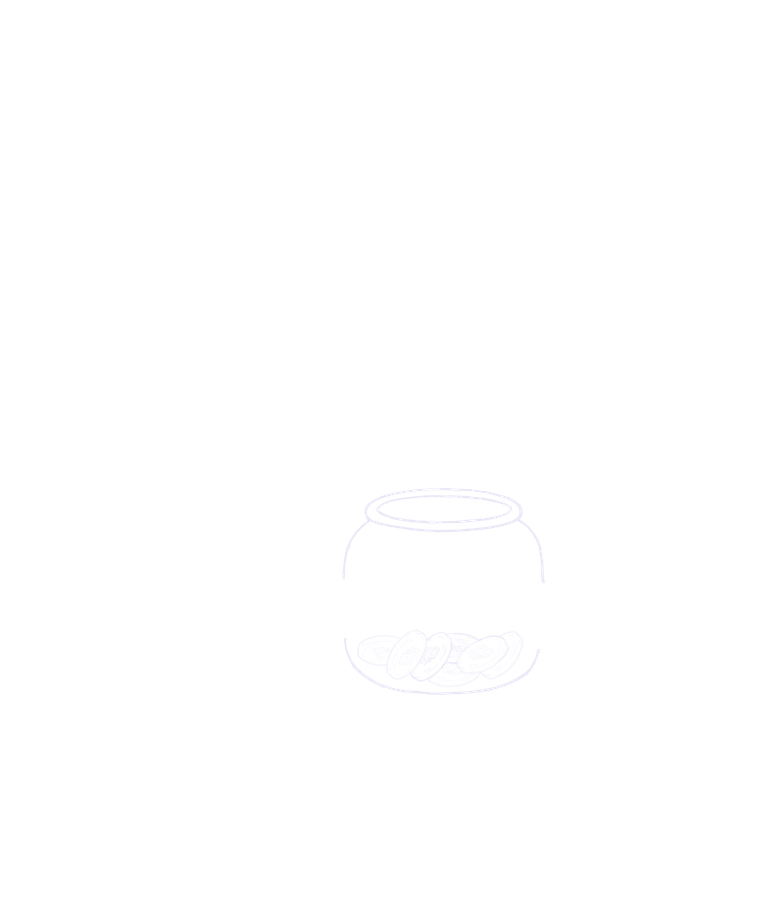
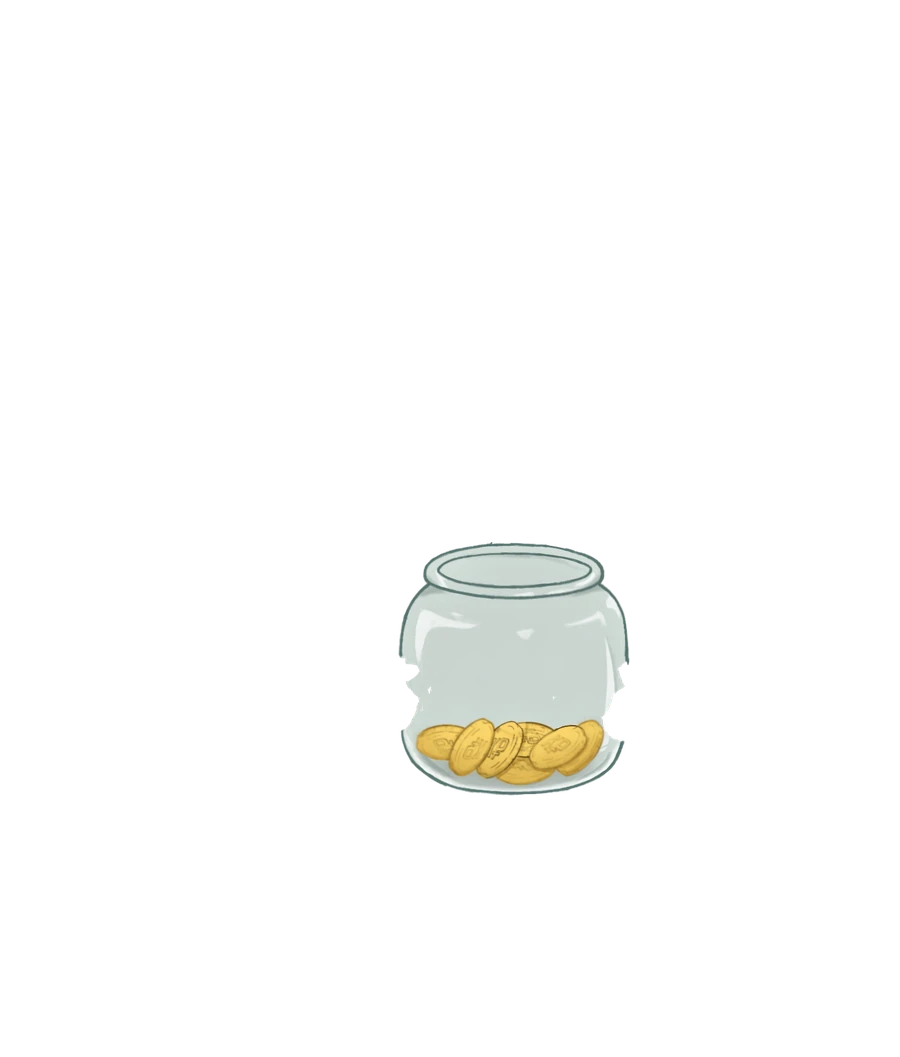
feat(daisu): the artist's finished drawing
her colour layers replace the line art sketch: two pairs of eyes, three pairs of brows, three mouths and the five jars. the export tool reads the artist's folders as they are, writes lossy webp instead of recolouring line art, and removes parts the new art no longer has. her everyday face wears the level brows, the smug face the raised ones and the sharp face the angry ones.

Changed region(s): [[0.4237, 0.487, 0.6961, 0.7609]]

diff --git a/src/components/daisu/DaisuArt.tsx b/src/components/daisu/DaisuArt.tsx
@@ -70,8 +70,8 @@ const mouthNow = (expression: Expression, talking: boolean, frame: number) => {
   return look.talk[Math.floor(frame / 2) % look.talk.length];
 };
 
-// daisu holding the jar, drawn as stacked parts: the body, one of five jars, her eyes and
-// her mouth. how full the jar is picks its drawing, so the picture itself is the gauge
+// daisu holding the jar, drawn as stacked parts: the body, one of five jars, her eyes, brows and
+// mouth. how full the jar is picks its drawing, so the picture itself is the gauge
 const DaisuArt = ({ fill, expression, shaking, hopping, bust, className, onJar, onPoke, pops = [], run, settleMs, jarLabel, pokeLabel, pokeLocked }: Props) => {
   const level = Math.max(0, Math.min(1, fill));
   const stage = jarStage(level);
@@ -109,8 +109,11 @@ const DaisuArt = ({ fill, expression, shaking, hopping, bust, className, onJar, 
             className={`${shaking ? "daisu-shake" : ""} ${level >= 1 ? "daisu-glow" : ""}`}
           />
         ))}
-        {(["default", "smug", "sharp"] as const).map((eyes) => (
+        {(["normal", "smug"] as const).map((eyes) => (
           <Layer key={eyes} part={`eyes-${eyes}`} hidden={eyes !== look.eyes} />
+        ))}
+        {(["neutral", "smug", "angry"] as const).map((brows) => (
+          <Layer key={brows} part={`brows-${brows}`} hidden={brows !== look.brows} />
         ))}
         {(["closed", "open", "smug"] as const).map((shape) => (
           <Layer key={shape} part={`mouth-${shape}`} hidden={shape !== mouth} />

diff --git a/src/components/daisu/daisuFace.ts b/src/components/daisu/daisuFace.ts
@@ -1,14 +1,15 @@
 export type Expression = "default" | "smug" | "sharp";
-type Eyes = "default" | "smug" | "sharp";
+type Eyes = "normal" | "smug";
+type Brows = "neutral" | "smug" | "angry";
 type Mouth = "closed" | "open" | "smug";
 
-// one drawing set per expression: the eyes she wears, the mouth she rests on, and the
+// one drawing set per expression: the eyes and brows she wears, the mouth she rests on, and the
 // mouths a line flaps through while she says it. the closed mouth is drawn turned down, so
 // under smug's lowered lids it read as a pout; smug keeps its own mouth at rest
-export const EXPRESSIONS: Record<Expression, { eyes: Eyes; rest: Mouth; talk: Mouth[] }> = {
-  default: { eyes: "default", rest: "closed", talk: ["open"] },
-  smug: { eyes: "smug", rest: "smug", talk: ["open"] },
-  sharp: { eyes: "sharp", rest: "closed", talk: ["open"] },
+export const EXPRESSIONS: Record<Expression, { eyes: Eyes; brows: Brows; rest: Mouth; talk: Mouth[] }> = {
+  default: { eyes: "normal", brows: "neutral", rest: "closed", talk: ["open"] },
+  smug: { eyes: "smug", brows: "smug", rest: "smug", talk: ["open"] },
+  sharp: { eyes: "normal", brows: "angry", rest: "closed", talk: ["open"] },
 };
 
 // the face a group of lines wears unless one of its lines says otherwise

diff --git a/src/components/daisu/daisuArtFiles.ts b/src/components/daisu/daisuArtFiles.ts
@@ -4,13 +4,14 @@ export const PART = (name: string) => `/images/daisu/parts/${name}.webp`;
 export const PARTS = [
   "base",
   "jar-0", "jar-1", "jar-2", "jar-3", "jar-4",
-  "eyes-default", "eyes-smug", "eyes-sharp",
+  "eyes-normal", "eyes-smug",
+  "brows-neutral", "brows-smug", "brows-angry",
   "mouth-closed", "mouth-open", "mouth-smug",
 ];
 
 let warmed = false;
 
-// her card used to fetch its nine layers the moment it opened, so the first open always waited on the
+// her card used to fetch its layers the moment it opened, so the first open always waited on the
 // network. they are asked for once the page is idle instead, so she is in the cache before the click
 export const preloadDaisuArt = () => {
   if (warmed || typeof window === "undefined") return;

diff --git a/src/components/daisu/daisuParts.ts b/src/components/daisu/daisuParts.ts
@@ -1,6 +1,6 @@
 // generated by tools/daisu/export.py, measured off the art itself; do not edit by hand
-export const ART_WIDTH = 1483;
-export const ART_HEIGHT = 1796;
+export const ART_WIDTH = 1505;
+export const ART_HEIGHT = 1768;
 
 // the glass she holds, as a share of the drawing: the click target, and what the numbers pop out of
-export const JAR = {"left": 44.98, "top": 52.67, "width": 26.77, "height": 22.94};
+export const JAR = {"left": 44.19, "top": 51.07, "width": 25.78, "height": 24.49};

diff --git a/src/components/daisu/daisuArtFiles.test.ts b/src/components/daisu/daisuArtFiles.test.ts
@@ -16,6 +16,6 @@ describe("warming her drawings", () => {
     expect(idle).toHaveBeenCalledTimes(1);
     expect(asked).toEqual(PARTS.map(PART));
     expect(asked).toContain("/images/daisu/parts/base.webp");
-    expect(asked).toHaveLength(12);
+    expect(asked).toHaveLength(14);
   });
 });

diff --git a/tools/daisu/export.py b/tools/daisu/export.py
@@ -2,23 +2,22 @@
 
 run from the repo root:  python tools/daisu/export.py
 
-input is Daisu_pngs/ (local only, never committed): twelve 2048x2048 layers that already
-share one canvas, so nothing here has to align anything by hand. output is
+input is Daisu_pngs/ (local only, never committed): the artist's 2048x2048 colour layers, which
+already share one canvas, so nothing here has to align anything by hand. output is
 
-  public/images/daisu/parts/*.webp   the layers, cropped to the drawing and recoloured
+  public/images/daisu/parts/*.webp   the layers, cropped to the drawing
   public/images/daisu/idle.webp      one flat composite for the decorative <img> call sites
   public/images/daisu/bust.webp      her head, for the same
   src/components/daisu/daisuParts.ts the measured geometry, so no percentage is guessed
 
-the art is drawn in black on transparent; the site wants the same lavender the first sketch
-used, so every layer is recoloured to INK with its alpha kept. lossless webp is smaller
-than quality 85 here because each layer is one flat colour, and it leaves the lines clean.
+the art is in colour since the artist finished it (2026-10), so the layers keep their colours;
+the first sketch was black line art recoloured to lavender. lossy webp at a high quality is a
+third of the lossless size on shaded colour and the difference does not show at her sizes.
 """
 import io
 import json
 import os
 
-import numpy as np
 from PIL import Image
 
 HERE = os.path.dirname(os.path.abspath(__file__))
@@ -28,26 +27,30 @@ PARTS = os.path.join(REPO, "public", "images", "daisu", "parts")
 ART = os.path.join(REPO, "public", "images", "daisu")
 GEOMETRY = os.path.join(REPO, "src", "components", "daisu", "daisuParts.ts")
 
-INK = (232, 229, 246)
-# the drawing is this wide in the export; she is never shown above 320 css px, so this is 2x
-WIDTH = 760
+# the drawing is this wide in the export; she is never shown above 320 css px, so this stays
+# sharp on a 2x screen zoomed to 140%
+WIDTH = 900
 # the flat composites are decoration at 46 to 290 px
-IDLE_WIDTH = 420
-BUST_WIDTH = 260
+IDLE_WIDTH = 480
+BUST_WIDTH = 300
+QUALITY = 90
 
 LAYERS = {
-    "base": "base/base.png",
-    "eyes-default": "olhos/olhos_2_default.png",
-    "eyes-smug": "olhos/olhos_1_smug.png",
-    "eyes-sharp": "olhos/olhos_3_sharp.png",
-    "mouth-closed": "bocas/boca_3_default.png",
-    "mouth-open": "bocas/boca_2_open.png",
-    "mouth-smug": "bocas/boca_1_open_smug.png",
-    "jar-0": "jarro/jarro_0_vazio.png",
-    "jar-1": "jarro/jarro_1_um_quarto.png",
-    "jar-2": "jarro/jarro_2_2_quartos.png",
-    "jar-3": "jarro/jarro_3_3_quartos.png",
-    "jar-4": "jarro/jarro_4_full.png",
+    "base": "base/base_daisu.png",
+    "eyes-normal": "rosto/olhos/olhos_normal.png",
+    "eyes-smug": "rosto/olhos/olhos_smug.png",
+    # the artist's first brows dip toward the nose and are the angry pair, the second are raised and smug, the third level
+    "brows-angry": "rosto/sobrancelhas/sobrancelhas_1.png",
+    "brows-smug": "rosto/sobrancelhas/sobrancelhas_2.png",
+    "brows-neutral": "rosto/sobrancelhas/sobrancelhas_3.png",
+    "mouth-closed": "rosto/bocas/boca_fechada.png",
+    "mouth-open": "rosto/bocas/boca_fala.png",
+    "mouth-smug": "rosto/bocas/boca_smug.png",
+    "jar-0": "jarro/jarro_0.png",
+    "jar-1": "jarro/jarro_1.png",
+    "jar-2": "jarro/jarro_2.png",
+    "jar-3": "jarro/jarro_3.png",
+    "jar-4": "jarro/jarro_4.png",
 }
 
 # the bust reaches this far past the rim of the jar, so her collar closes the crop
@@ -58,12 +61,6 @@ def load(name):
     return Image.open(os.path.join(SRC, LAYERS[name])).convert("RGBA")
 
 
-def tint(im):
-    a = np.array(im)
-    a[:, :, 0], a[:, :, 1], a[:, :, 2] = INK
-    return Image.fromarray(a)
-
-
 def union(boxes):
     return (min(b[0] for b in boxes), min(b[1] for b in boxes), max(b[2] for b in boxes), max(b[3] for b in boxes))
 
@@ -71,28 +68,32 @@ def union(boxes):
 def write(im, path, width):
     im = im.resize((width, round(im.height * width / im.width)), Image.LANCZOS)
     os.makedirs(os.path.dirname(path), exist_ok=True)
-    im.save(path, "WEBP", lossless=True, method=6)
+    im.save(path, "WEBP", quality=QUALITY, method=6)
     return os.path.getsize(path)
 
 
 def main():
     art = {name: load(name) for name in LAYERS}
-    box = art["base"].split()[-1].getbbox()
+    box = union([im.split()[-1].getbbox() for im in art.values()])
     jar = union([art[f"jar-{i}"].split()[-1].getbbox() for i in range(5)])
+
+    # parts from an earlier set of art that this one no longer has
+    for old in os.listdir(PARTS):
+        if old.endswith(".webp") and old[:-5] not in LAYERS:
+            os.remove(os.path.join(PARTS, old))
 
     total = 0
     for name, im in art.items():
-        total += write(tint(im).crop(box), os.path.join(PARTS, f"{name}.webp"), WIDTH)
+        total += write(im.crop(box), os.path.join(PARTS, f"{name}.webp"), WIDTH)
 
     flat = art["base"].copy()
-    for part in ("jar-4", "eyes-default", "mouth-closed"):
+    for part in ("jar-4", "eyes-normal", "brows-neutral", "mouth-closed"):
         flat.alpha_composite(art[part])
-    flat = tint(flat)
     total += write(flat.crop(box), os.path.join(ART, "idle.webp"), IDLE_WIDTH)
 
     # a square portrait: as wide as it is tall, centred on her eyes, cut under the rim of
     # the jar, so her face still reads at the 46px the bubble draws it
-    eyes = art["eyes-default"].split()[-1].getbbox()
+    eyes = art["eyes-normal"].split()[-1].getbbox()
     middle = (eyes[0] + eyes[2]) // 2
     bottom = jar[1] + BUST_BELOW
     half = (bottom - box[1]) // 2
